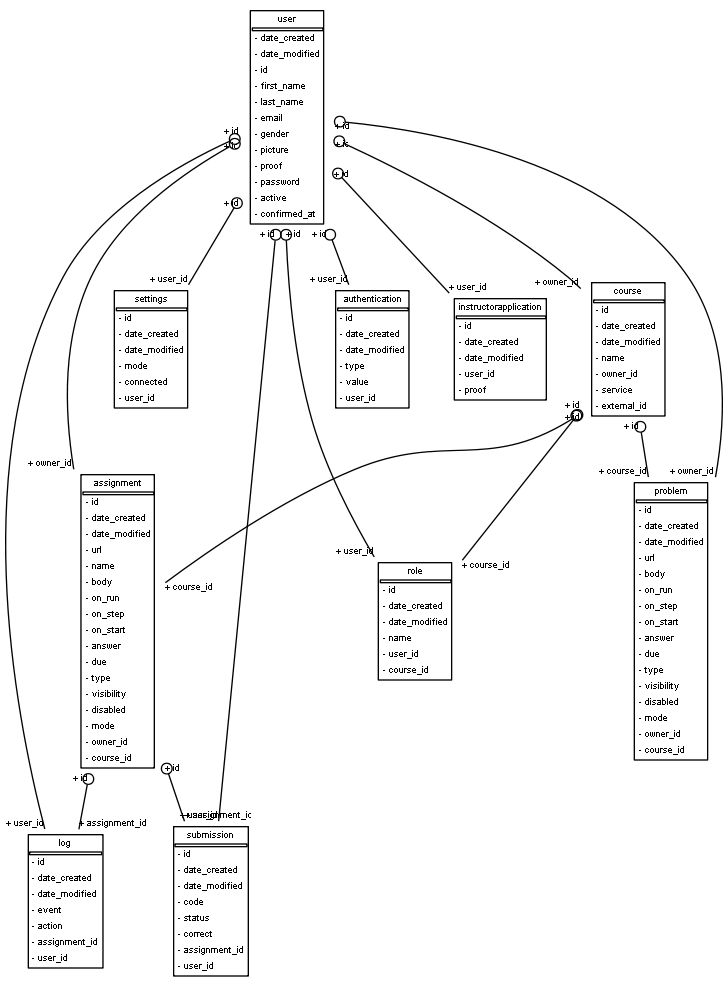
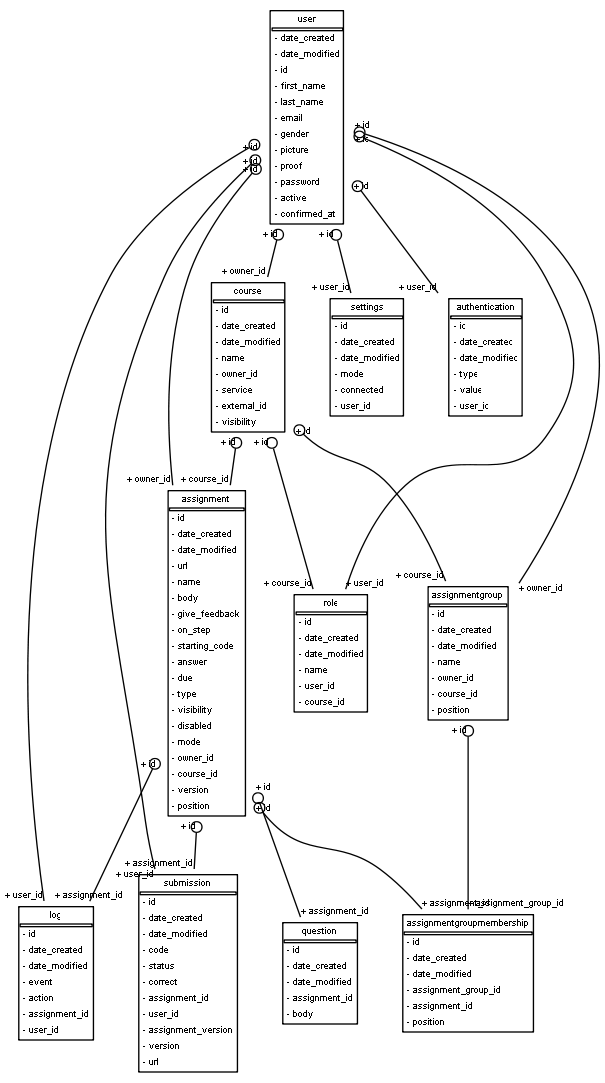
Fixed selection, form/session, and json encode/decode for db

diff --git a/templates/lti/select.html b/templates/lti/select.html
@@ -96,6 +96,7 @@ function MainModel() {
     self.moveGroup = function(assignment, old_group, new_group) {
         $.post("{{ url_for('assignment_group.move_membership') }}", {
                 'new_group_id': new_group.id,
+                "course_id": {{ g.course.id|tojson }},
                 'assignment_id': assignment.id
            }, function(data) {
             // We have the assignment (and its id)
@@ -122,6 +123,7 @@ function MainModel() {
         if (new_name != null) {
             $.post("{{ url_for('assignment_group.edit_group') }}", {
                 'new_name': new_name,
+                "course_id": {{ g.course.id|tojson }},
                 'assignment_group_id': group.id
             }, function(data) {
                 if (data.success) {
@@ -148,6 +150,7 @@ function MainModel() {
     
     self.addGroup = function() {
         $.post("{{ url_for('assignment_group.add_group') }}", {
+            "course_id": {{ g.course.id|tojson }}
         }, function(data) {
             if (data.success) {
                 self.groups.unshift({
@@ -168,7 +171,8 @@ function MainModel() {
             return false;
         }
         $.post("{{ url_for('assignment_group.remove_group') }}", {
-            'assignment_group_id': that.id
+            'assignment_group_id': that.id,
+            "course_id": {{ g.course.id|tojson }}
         }, function(data) {
             if (data.success) {
                 self.groups.remove(that);

diff --git a/models/models.py b/models/models.py
@@ -22,6 +22,12 @@ Model = db.Model
 relationship = db.relationship
 backref = db.backref
 
+def datetime_to_string(adatetime):
+    return adatetime.isoformat() + 'Z'
+
+def string_to_datetime(astring):
+    return datetime.strptime(astring, '%Y-%m-%dT%H:%M:%S.%fZ')
+
 def ensure_dirs(path):
     try: 
         os.makedirs(path)
@@ -152,6 +158,29 @@ class Course(Base):
     service = Column(String(80), default="native")
     external_id = Column(String(255), default="")
     visibility = Column(String(80), default="private")
+    
+    def encode_json(self):
+        user = User.query.get(self.owner_id)
+        return {'_schema_version': 1,
+                'name': self.name,
+                'owner_id': self.owner_id,
+                'owner_id__email': user.email if user else '',
+                'service': self.service,
+                'external_id': self.external_id,
+                'visibility': self.visibility,
+                'id': self.id,
+                'date_modified': datetime_to_string(self.date_modified),
+                'date_created': datetime_to_string(self.date_created)}
+    @staticmethod
+    def decode_json(self, data):
+        if data['_schema_version'] == 1:
+            data = dict(data) # shallow copy
+            del data['_schema_version']
+            del data['owner_id__email']
+            data['date_modified'] = string_to_datetime(data['date_modified'])
+            data['date_created'] = string_to_datetime(data['date_created'])
+            return Course(**data)
+        raise Exception("Unknown schema version: {}".format(data.get('_schema_version', "Unknown")))
     
     def __str__(self):
         return '<Course {}>'.format(self.id)
@@ -457,6 +486,39 @@ class Assignment(Base):
     version = Column(Integer(), default=0)
     position = Column(Integer(), default=0)
     
+    def encode_json(self):
+        user = User.query.get(self.owner_id)
+        return {'_schema_version': 1,
+                'url': self.url,
+                'name': self.name,
+                'body': self.body,
+                'give_feedback': self.give_feedback,
+                'on_step': self.on_step,
+                'starting_code': self.starting_code,
+                'answer': self.answer,
+                'type': self.type,
+                'disabled': self.disabled,
+                'mode': self.mode,
+                'owner_id': self.owner_id,
+                'course_id': self.course_id,
+                'owner_id__email': user.email if user else '',
+                'version': self.version,
+                'position': self.position,
+                'visibility': self.visibility,
+                'id': self.id,
+                'date_modified': datetime_to_string(self.date_modified),
+                'date_created': datetime_to_string(self.date_created)}
+    @staticmethod
+    def decode_json(self, data):
+        if data['_schema_version'] == 1:
+            data = dict(data) # shallow copy
+            del data['_schema_version']
+            del data['owner_id__email']
+            data['date_modified'] = string_to_datetime(data['date_modified'])
+            data['date_created'] = string_to_datetime(data['date_created'])
+            return Assignment(**data)
+        raise Exception("Unknown schema version: {}".format(data.get('_schema_version', "Unknown")))
+    
     @staticmethod
     def edit(assignment_id, presentation=None, name=None, 
              give_feedback=None, on_step=None, starting_code=None, parsons=None, text_first=None):
@@ -567,6 +629,28 @@ class AssignmentGroup(Base):
     course_id = Column(Integer(), ForeignKey('course.id'))
     position = Column(Integer(), default=0)
     
+    def encode_json(self):
+        user = User.query.get(self.owner_id)
+        return {'_schema_version': 1,
+                'name': self.name,
+                'owner_id': self.owner_id,
+                'owner_id__email': user.email if user else '',
+                'course_id': self.course_id,
+                'position': self.position,
+                'id': self.id,
+                'date_modified': datetime_to_string(self.date_modified),
+                'date_created': datetime_to_string(self.date_created)}
+    @staticmethod
+    def decode_json(self, data):
+        if data['_schema_version'] == 1:
+            data = dict(data) # shallow copy
+            del data['_schema_version']
+            del data['owner_id__email']
+            data['date_modified'] = string_to_datetime(data['date_modified'])
+            data['date_created'] = string_to_datetime(data['date_created'])
+            return AssignmentGroup(**data)
+        raise Exception("Unknown schema version: {}".format(data.get('_schema_version', "Unknown")))
+    
     @staticmethod    
     def new(owner_id, course_id):
         last = (db.session.query(func.max(AssignmentGroup.position).label("last_position"))
@@ -639,6 +723,24 @@ class AssignmentGroupMembership(Base):
     assignment_group_id = Column(Integer(), ForeignKey('assignmentgroup.id'))
     assignment_id = Column(Integer(), ForeignKey('assignment.id'))
     position = Column(Integer())
+    
+    def encode_json(self):
+        return {'_schema_version': 1,
+                'assignment_group_id': self.assignment_group_id,
+                'assignment_id': self.assignment_id,
+                'position': self.position,
+                'id': self.id,
+                'date_modified': datetime_to_string(self.date_modified),
+                'date_created': datetime_to_string(self.date_created)}
+    @staticmethod
+    def decode_json(self, data):
+        if data['_schema_version'] == 1:
+            data = dict(data) # shallow copy
+            del data['_schema_version']
+            data['date_modified'] = string_to_datetime(data['date_modified'])
+            data['date_created'] = string_to_datetime(data['date_created'])
+            return AssignmentGroupMembership(**data)
+        raise Exception("Unknown schema version: {}".format(data.get('_schema_version', "Unknown")))
     
     @staticmethod
     def move_assignment(assignment_id, new_group_id):

diff --git a/scripts/db_commands.py b/scripts/db_commands.py
@@ -4,6 +4,8 @@ from models.models import db
 from main import app
 import datetime
 import random
+import json
+from pprint import pprint
 
 class ResetDB(Command):
     """Drops all tables and recreates them"""
@@ -70,3 +72,25 @@ class DisplayDB(Command):
             concentrate=False # Don't try to join the relation lines together
             )
         graph.write_png(filename) # write out the file
+
+class ExportCourse(Command):
+    option_list = (
+        Option('--file', '-f', dest='course_data_path', default='backups/current_course_data.json'),
+        Option('--course', '-c', dest='course_id', default='backups/current_course_data.json'),
+    )
+    
+    def run(self, course_id, course_data_path, **kwargs):
+        from models.models import Course, Assignment, AssignmentGroup, AssignmentGroupMembership
+        course = Course.query.get(int(course_id))
+        assignments = [a.encode_json() for a in Assignment.query.all()]
+        assignment_groups = [a.encode_json() for a in AssignmentGroup.query.all()]
+        assignment_memberships = [a.encode_json() for a in AssignmentGroupMembership.query.all()]
+        exported_data = {
+            'course': course.encode_json(),
+            'assignments': assignments,
+            'assignment_groups': assignment_groups,
+            'assignment_memberships': assignment_memberships
+        }
+        with open(course_data_path, 'w') as output_file:
+            json.dump(exported_data, output_file, indent=2)
+        pprint(exported_data)

diff --git a/controllers/assignments.py b/controllers/assignments.py
@@ -1,7 +1,7 @@
 from flask import Blueprint, g, session, render_template, url_for, request, jsonify
 from urllib import quote as url_quote
 
-from controllers.helpers import lti, get_assignments_from_request, strip_tags
+from controllers.helpers import lti, get_assignments_from_request, strip_tags, get_lti_property
 
 from main import app
 
@@ -165,7 +165,9 @@ def select(lti=lti):
     groups = [(group, group.get_assignments())
               for group in AssignmentGroup.by_course(g.course.id)]
     strays = AssignmentGroup.get_ungrouped_assignments(g.course.id)
-    return_url = session['launch_presentation_return_url']
+    return_url = get_lti_property('launch_presentation_return_url')
+    print(return_url)
+    print(request.form.get('launch_presentation_return_url'))
     
     return render_template('lti/select.html', assignments=assignments, strays=strays, groups=groups, return_url=return_url, menu='select')
 
@@ -180,7 +182,7 @@ def select_embed(lti=lti):
     groups = [(group, group.get_assignments())
               for group in AssignmentGroup.by_course(g.course.id)]
     strays = AssignmentGroup.get_ungrouped_assignments(g.course.id)
-    return_url = session['launch_presentation_return_url']
+    return_url = get_lti_property('launch_presentation_return_url')
     
     return render_template('lti/select.html', assignments=assignments, strays=strays, groups=groups, return_url=return_url, menu='embed')
     

diff --git a/controllers/helpers.py b/controllers/helpers.py
@@ -139,7 +139,7 @@ def crossdomain(origin=None, methods=None, headers=None,
 def get_assignments_from_request():
     assignment_id = request.args.get('assignment_id', None)
     assignment_group_id = request.args.get('assignment_group_id', None)
-    submission_url = session.get('lis_result_sourcedid', '')
+    submission_url = get_lti_property('lis_result_sourcedid', '')
     # Assignment group or individual assignment?
     if assignment_group_id is not None:
         group = AssignmentGroup.by_id(assignment_group_id)
@@ -166,3 +166,12 @@ def strip_tags(html):
     s = MLStripper()
     s.feed(html)
     return s.get_data()
+
+def get_lti_property(property_name, default_value=None):
+    if property_name in request.form:
+        return request.form[property_name]
+    elif property_name in session:
+        return session[property_name]
+    elif default_value is not None:
+        return default_value
+    raise KeyError('Property {0} not found in form or session.'.format(property_name))

diff --git a/manage.py b/manage.py
@@ -2,7 +2,7 @@ import sys, os
 
 from main import app
 from flask.ext.script import Manager, Server
-from scripts.db_commands import ResetDB, PopulateDB, DisplayDB
+from scripts.db_commands import ResetDB, PopulateDB, DisplayDB, ExportCourse
 from scripts.external_commands import UpdateDatasets, UpdateBlockPy
 
 '''from OpenSSL import SSL
@@ -20,6 +20,7 @@ manager.add_command("secure", Server(ssl_context=context))
 manager.add_command("reset_db", ResetDB())
 manager.add_command("populate_db", PopulateDB())
 manager.add_command("display_db", DisplayDB())
+manager.add_command("export_course", ExportCourse())
 
 manager.add_command("update_datasets", UpdateDatasets())
 manager.add_command("update_blockpy", UpdateBlockPy())

diff --git a/controllers/admin.py b/controllers/admin.py
@@ -86,7 +86,7 @@ class SubmissionView(RegularView):
     column_list = ('id', 'date_modified', 
                    'user_id', 'assignment_id',
                    'code', 'status', 
-                   'correct', 'version', 'assignment_version'
+                   'correct', 'version', 'assignment_version', 'url'
                    )
 
 admin.add_view(UserView(User, db.session, category='Tables'))

diff --git a/todo.md b/todo.md
@@ -1,3 +1,28 @@
+Grading uploads image in block mode
+Blockly~Corgis integration
+Finalize parking
+Instructor API rewrite
+Superior error messages
+Upload mode
+Decouple Assignments from Courses
+Data explorer
+Fix undo/redo and copy/paste
+
+Submission
+    tied to a student/course/assignment
+Assignment
+    tied to nothing
+    Delete -> Removes this assignment completely
+        Only creators of the assignment can do this? And Admins
+        
+    Remove -> deletes its entry in the Course Assignments
+Assignment Group
+    tied to nothing
+    Delete -> 
+Course Assignments
+    Connects a course to its list of assignments
+Create a new assignment
+
 Low
     Add student(s)
         Add Directly
@@ -17,7 +42,7 @@ Low
     Trashcan is broken
     Enable "shift-select" to do multi-block select.
 High
-    Move capture into right click menu, make capture create PNGs
+    Upload mode
     Finish parking menus
     Instructor api
         set_highlight
@@ -26,16 +51,13 @@ High
         popup
         ast_has()
         ast_get()
-    Incorrect code can crash the back-and-forth
-        if 0: pass
     Student View is broken
     Generate feedback might be broken
-    Visualizer is still creating phantom graphs
-    Parsons problems are not working
-    Figure out final toolbar - reset needs to be fixed, for sure
     Unit testing for the static analyzer
         += is not correctly intrepetted
         Doesn't recognize built-ins like sorted
+    Screenshotter fails on blocks that have an unconnected left
+    
         
 SQL blocks
 Download this problem for offline (bundle javascript?)
